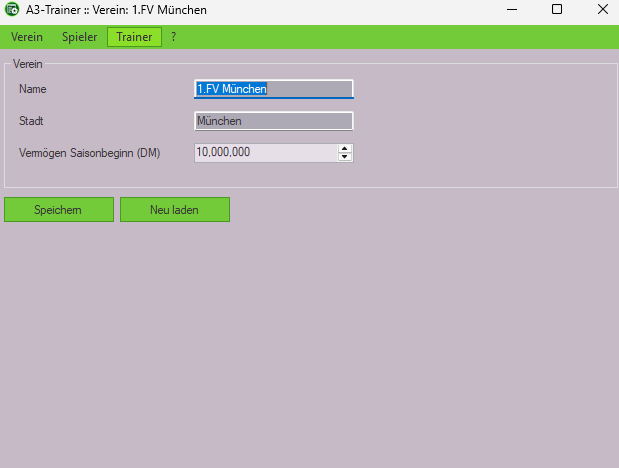
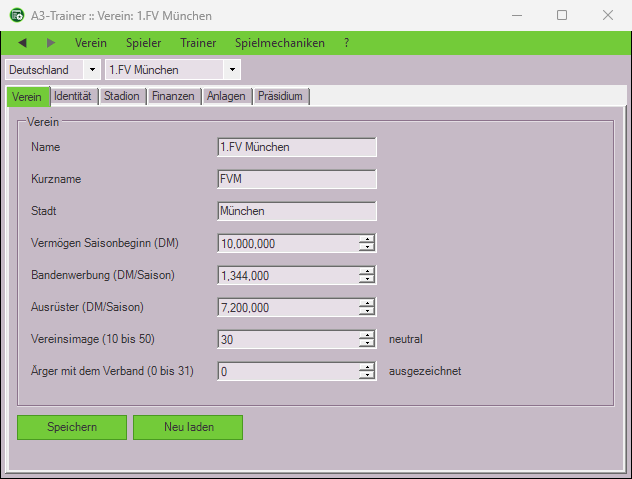
Describe Wine/Proton and the navigation, complete the help and retake the screenshots

Changed region(s): [[0.0, 0.0, 1.0, 1.0]]

diff --git a/help/index.html b/help/index.html
@@ -76,7 +76,7 @@
 
           <div class="callout tip">
             <strong class="label">Automatische Verbindung</strong>
-            Der Trainer verbindet sich von selbst mit dem Spiel, egal ob er vor oder nach <em>Anstoss 3</em> gestartet wird. Startet das Spiel neu oder laden Sie einen anderen Spielstand, aktualisiert er sich automatisch. Im Hauptmenü des Spiels wartet er, bis eine Karriere geladen ist.
+            Der Trainer verbindet sich von selbst mit dem Spiel, egal ob er vor oder nach <em>Anstoss 3</em> gestartet wird. Startet das Spiel neu oder laden Sie einen anderen Spielstand, aktualisiert er sich automatisch. Im Hauptmenü des Spiels wartet er, bis eine Karriere geladen ist. Unter Linux funktioniert das auch mit Wine oder Proton, wenn Trainer und Spiel im selben Wine-Präfix laufen.
           </div>
 
           <fieldset class="groupbox">
@@ -87,8 +87,8 @@
                 <figcaption>Eigener Kader: Spielerliste links, Details mit Registerkarten rechts</figcaption>
               </figure>
               <figure>
-                <img class="screenshot" src="img/club.png" alt="Verein und Manager">
-                <figcaption>Verein und Manager: Vermögen des Vereins und des Managers</figcaption>
+                <img class="screenshot" src="img/club.png" alt="Verein: Vereinsauswahl über den Reitern Verein, Identität, Stadion, Finanzen, Anlagen und Präsidium">
+                <figcaption>Verein: Auswahl des Vereins über den Reitern, darunter seine Daten</figcaption>
               </figure>
             </div>
             <p>Die beiden Pfeile ganz links im Menü (oder <kbd>Alt</kbd>+<kbd>←</kbd> / <kbd>Alt</kbd>+<kbd>→</kbd>) springen zu den zuletzt gezeigten Seiten zurück und wieder vor. Diese Hilfe steckt auch im Trainer: <span class="menu-path">? → Hilfe</span>.</p>
@@ -199,8 +199,8 @@
           <fieldset class="groupbox">
             <legend>Registerkarte „Eig. 2“</legend>
             <dl class="field-list">
-              <dt>Publikum</dt><dd>normal, Liebling oder Haßfigur, so wie die Spielerinfo es zeigt. Das Spiel bewertet das nach jedem Spiel neu: Spielt ein Liebling dauerhaft schlecht, kann er es wieder verlieren.</dd>
               <dt>Gesundheitszustand</dt><dd>normal, robust (seltener verletzt), anfällig (häufiger verletzt), Knieprobleme, schnell wieder fit, dauert bis wieder fit oder wehleidig (will nach Fouls ausgewechselt werden).</dd>
+              <dt>Publikum</dt><dd>normal, Liebling oder Haßfigur, so wie die Spielerinfo es zeigt. Das Spiel bewertet das nach jedem Spiel neu: Spielt ein Liebling dauerhaft schlecht, kann er es wieder verlieren.</dd>
             </dl>
           </fieldset>
         </div>
@@ -241,8 +241,8 @@
               <dt>Beziehung</dt><dd>keine, Freundin, verlobt oder verheiratet. Davon hängen Ereignisse wie Heirat oder Kinder ab.</dd>
               <dt>Stand</dt><dd>zusammen, getrennt, geschieden, auseinander oder Scheidung; die Spielerinfo zeigt ihn neben der Partnerin.</dd>
               <dt>Partnerin</dt><dd>Der Vorname aus der Namensliste, aus der das Spiel Partnerin und Kinder dieses Spielers benennt.</dd>
-              <dt>Kinder</dt><dd>Anzahl 0 bis 5, darunter je Kind Name (aus derselben Liste) und Geburtstag. Ein neu hinzugefügtes Kind bekommt einen freien Namen und das heutige Datum. Wie im Spiel tragen Geschwister verschiedene Namen; ein Geburtstag, den es nicht gibt, wird nicht gespeichert.</dd>
               <dt>Hobby</dt><dd>Eines der 39 Hobbys des Spiels oder keins. Manche Hobbys lösen eigene Ereignisse aus.</dd>
+              <dt>Kinder</dt><dd>Anzahl 0 bis 5, darunter je Kind Name (aus derselben Liste) und Geburtstag. Ein neu hinzugefügtes Kind bekommt einen freien Namen und das heutige Datum. Wie im Spiel tragen Geschwister verschiedene Namen; ein Geburtstag, den es nicht gibt, wird nicht gespeichert.</dd>
             </dl>
           </fieldset>
         </div>
@@ -324,7 +324,7 @@
               <dt>Liste</dt><dd>Die laufenden Geldanlagen des Vereins mit eingezahltem Betrag, aktuellem Wert und Gewinn. Solange eine Anlage läuft, zählt ihr Wert nicht zum Bankguthaben; erst wenn Sie sie im Spiel auflösen (Bilanz → Anlagen), kommt der Wert samt Gewinn aufs Konto.</dd>
               <dt>Wert setzen</dt><dd>Eine Anlage in der Liste wählen, den neuen Wert als Betrag eintragen und „Wert setzen“ drücken. Beim Auflösen im Spiel gibt es diesen Wert.</dd>
               <dt>Neu anlegen</dt><dd>Ohne gewählte Anlage: Anlagepartner und Betrag wählen und „Neu anlegen“ drücken, wie im Anlagendialog des Spiels. Ein Verein hat höchstens sechs Anlagen.</dd>
-              <dt>Kursindex (für alle Vereine)</dt><dd>Der aktuelle Kurs jedes Anlagepartners, am Anfang 1000. Der Wert einer Anlage wächst und fällt im gleichen Verhältnis wie der Index seit dem Kauf. Ein höherer Index macht also alle Anlagen bei diesem Partner mehr wert, auch die anderer Vereine.</dd>
+              <dt>Kursindex (für alle Vereine)</dt><dd>Der aktuelle Kurs jedes Anlagepartners, am Anfang 1000. Der Wert einer Anlage wächst und fällt im gleichen Verhältnis wie der Index seit dem Kauf. Ein höherer Index macht also alle Anlagen bei diesem Partner mehr wert, auch die anderer Vereine. Neue Werte eintragen und „Indizes setzen“ drücken.</dd>
             </dl>
           </fieldset>
           <fieldset class="groupbox">
@@ -345,9 +345,9 @@
             </dl>
           </fieldset>
           <fieldset class="groupbox">
-            <legend>Vertrag des Managers</legend>
+            <legend>Vertrag (<span class="menu-path">Trainer → Manager</span>, Reiter „Manager“)</legend>
             <dl class="field-list">
-              <dt>Festgehalt (DM pro Jahr)</dt><dd>Das Gehalt des Managers. Das Spiel ändert es selbst nur bei Vertragsverhandlungen.</dd>
+              <dt>Festgehalt (DM/Jahr)</dt><dd>Das Gehalt des Managers. Das Spiel ändert es selbst nur bei Vertragsverhandlungen.</dd>
               <dt>Punktprämie, je Pokalrunde, je Titel / Aufstieg</dt><dd>Die Prämien in DM, wie sie die Karriere-Übersicht des Spiels zeigt.</dd>
               <dt>Bonus bei Erreichen (DM)</dt><dd>Den Bonus zahlt das Spiel am Saisonende aufs Privatvermögen, wenn der Verein sein Saisonziel erreicht. Das Saisonziel selbst ist noch nicht bearbeitbar.</dd>
               <dt>Laufzeit (Jahre)</dt><dd>Restliche Spielzeiten. Das Spiel zählt sie zum Saisonwechsel herunter; bei weniger als zwei Jahren verhandelt der Vorstand neu.</dd>
@@ -368,7 +368,7 @@
           <fieldset class="groupbox">
             <legend>Karriere (<span class="menu-path">Trainer → Manager</span>, Reiter „Karriere“)</legend>
             <dl class="field-list">
-              <dt>Titel und Ehrungen</dt><dd>Meisterschaften, Pokalsiege, Finalteilnahmen, Liga-/Supercupsiege, Europapokale mit ihren Finalteilnahmen, Europa- und Weltmeisterschaften, Trainer des Monats und Manager des Jahres, wie unter „Persönliche Erfolge → Trainererfolge“.</dd>
+              <dt>Titel und Ehrungen</dt><dd>Meisterschaften, Pokalsiege, Finalteilnahmen, Liga-/Supercupsiege, Meisterpokal- und Europapokalsiege mit ihren Finalteilnahmen, Europäische Supercups, Weltpokale, Europa- und Weltmeisterschaften, Trainer des Monats und Manager des Jahres, wie unter „Persönliche Erfolge → Trainererfolge“.</dd>
               <dt>Laufbahn</dt><dd>Managerjahre, wie oft der Manager entlassen wurde und wie oft er selbst gegangen ist; die Zahl der Stationen wird nur angezeigt.</dd>
               <dt>Spiele als Trainer</dt><dd>Spiele und Siege in Liga, Pokal, Europapokal und Länderspielen. Daraus rechnet das Spiel „Spiele gewonnen“. Mehr Siege als Spiele werden nicht gespeichert.</dd>
             </dl>
@@ -389,7 +389,7 @@
         <div class="subpanel active" data-sub="only">
           <fieldset class="groupbox">
             <legend>Interviews: Wirkung der Antworten zeigen</legend>
-            <p>Bei jedem Interview steht hinter jeder Antwort, was sie bewirkt, zum Beispiel „[Fans -5, Vorstand -2]“. Gemeint sind Ihre Beliebtheit in der Öffentlichkeit, bei den Medien und den Fans, das Vertrauen des Vorstands, die Laune des Reporters, die Stimmung in der Mannschaft und die Meinung eines Spielers über Sie. Antworten ohne Angabe ändern nichts davon.</p>
+            <p>Einschalten über <span class="menu-path">Spielmechaniken → Interviews: Wirkung der Antworten zeigen</span>. Dann steht bei jedem Interview hinter jeder Antwort, was sie bewirkt, zum Beispiel „[Fans -5, Vorstand -2]“. Gemeint sind Ihre Beliebtheit in der Öffentlichkeit, bei den Medien und den Fans, das Vertrauen des Vorstands, die Laune des Reporters, die Stimmung in der Mannschaft und die Meinung eines Spielers über Sie. Antworten ohne Angabe ändern nichts davon.</p>
           </fieldset>
         </div>
       </section>

diff --git a/README.md b/README.md
@@ -16,6 +16,7 @@ Trainer for **Anstoss 3**. Edits players, club and manager.
 - **Anstoss 3 version 1.40**. The exes on the CD (1.0 and the official patch 1.10) are separate
   builds with a different memory layout; the trainer reports them as unsupported.
 - A loaded save game (career). In the game's main menu the trainer waits.
+- Windows, or Linux with Wine/Proton (start the trainer in the same Wine prefix as the game).
 
 To get the game running on Windows 10/11 at all:
 
@@ -64,7 +65,7 @@ makes the move at the next daily processing with its own transfer function (squa
 at the new club, news); loans aren't supported yet.
 
 **Club** (`Verein → Eigener Verein` for the selected manager's club, `Verein → Anderer Verein` or the country and club
-choice in the tab row for any other club; all tabs follow the club picked): name, short name and city, wealth at the start of the season (determines the bank balance), season income from the advertising boards and the outfitter, club image,
+choice above the tabs for any other club; all tabs follow the club picked): name, short name and city, wealth at the start of the season (determines the bank balance), season income from the advertising boards and the outfitter, club image,
 trouble with the association (standing from "ausgezeichnet" to "verzockt").
 **Stadium** (`Verein → Eigener Verein`, tab `Stadion`): name and city, VIP places, seats and standing places, heaters, roof, running track
 and condition per tribune, scoreboard and comfort (undersoil heating, heated seats, retractable pitch, seat cushions,
@@ -108,6 +109,8 @@ whose turn it is; with two or more, the `Trainer` menu lists them to look at ano
 **Game mechanics** (`Spielmechaniken`, only while trainer and game run; nothing of it goes into a save game):
 `Interviews: Wirkung der Antworten zeigen` appends each interview answer's effects to its text in the game, e.g.
 " [Fans -5, Vorstand -2]" (public, media, fans, board, reporter, team, a player).
+
+**Navigation**: the arrows at the left of the menu (or Alt+← / Alt+→) go back and forward through the pages shown.
 
 **Help** (`? → Hilfe`): the online help, built into the trainer from the same page, so both say the same;
 `? → Über` shows version, links and the log folder.
